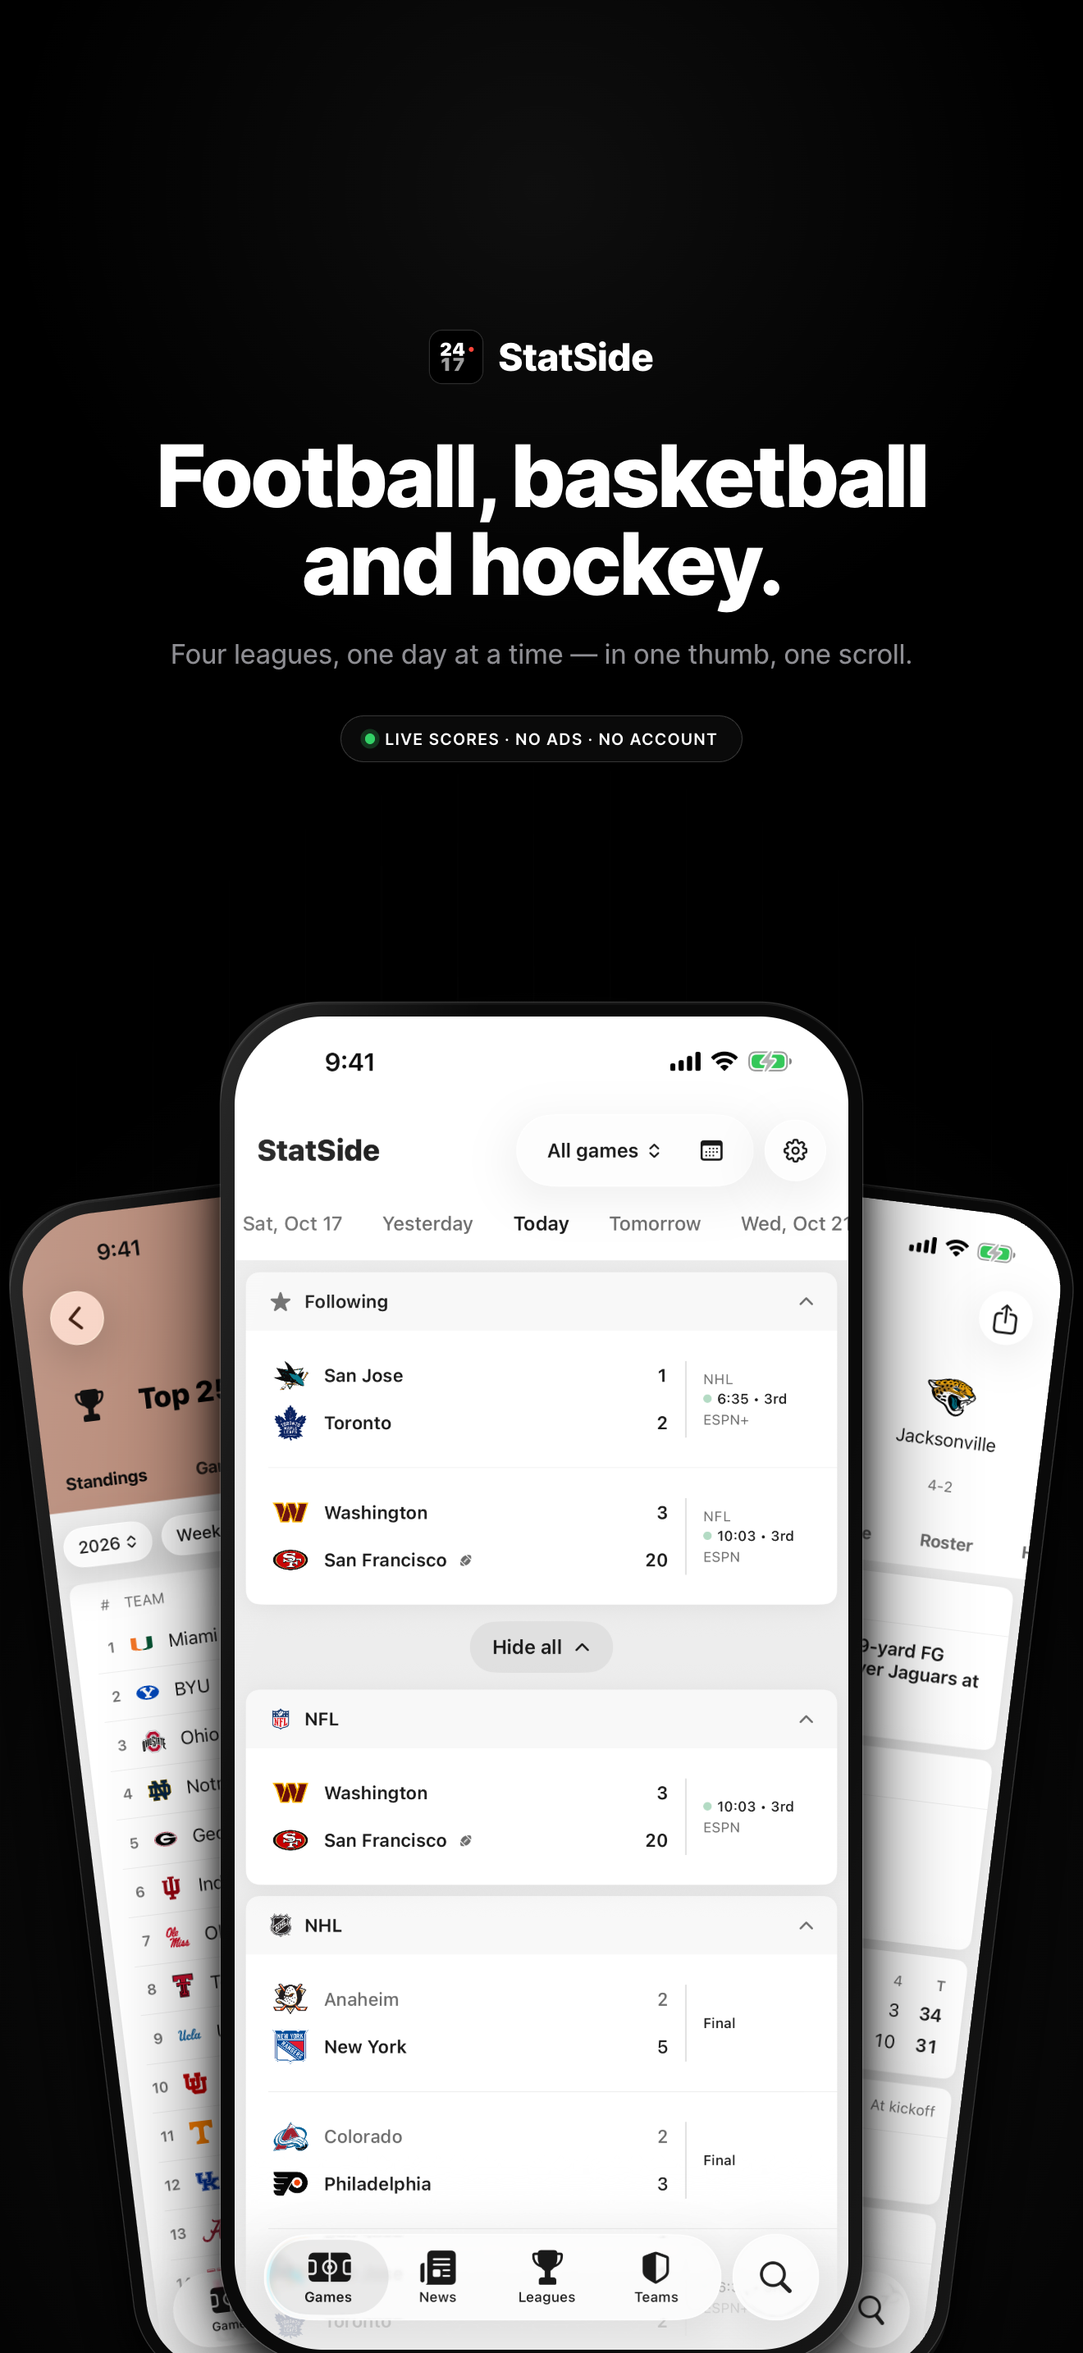
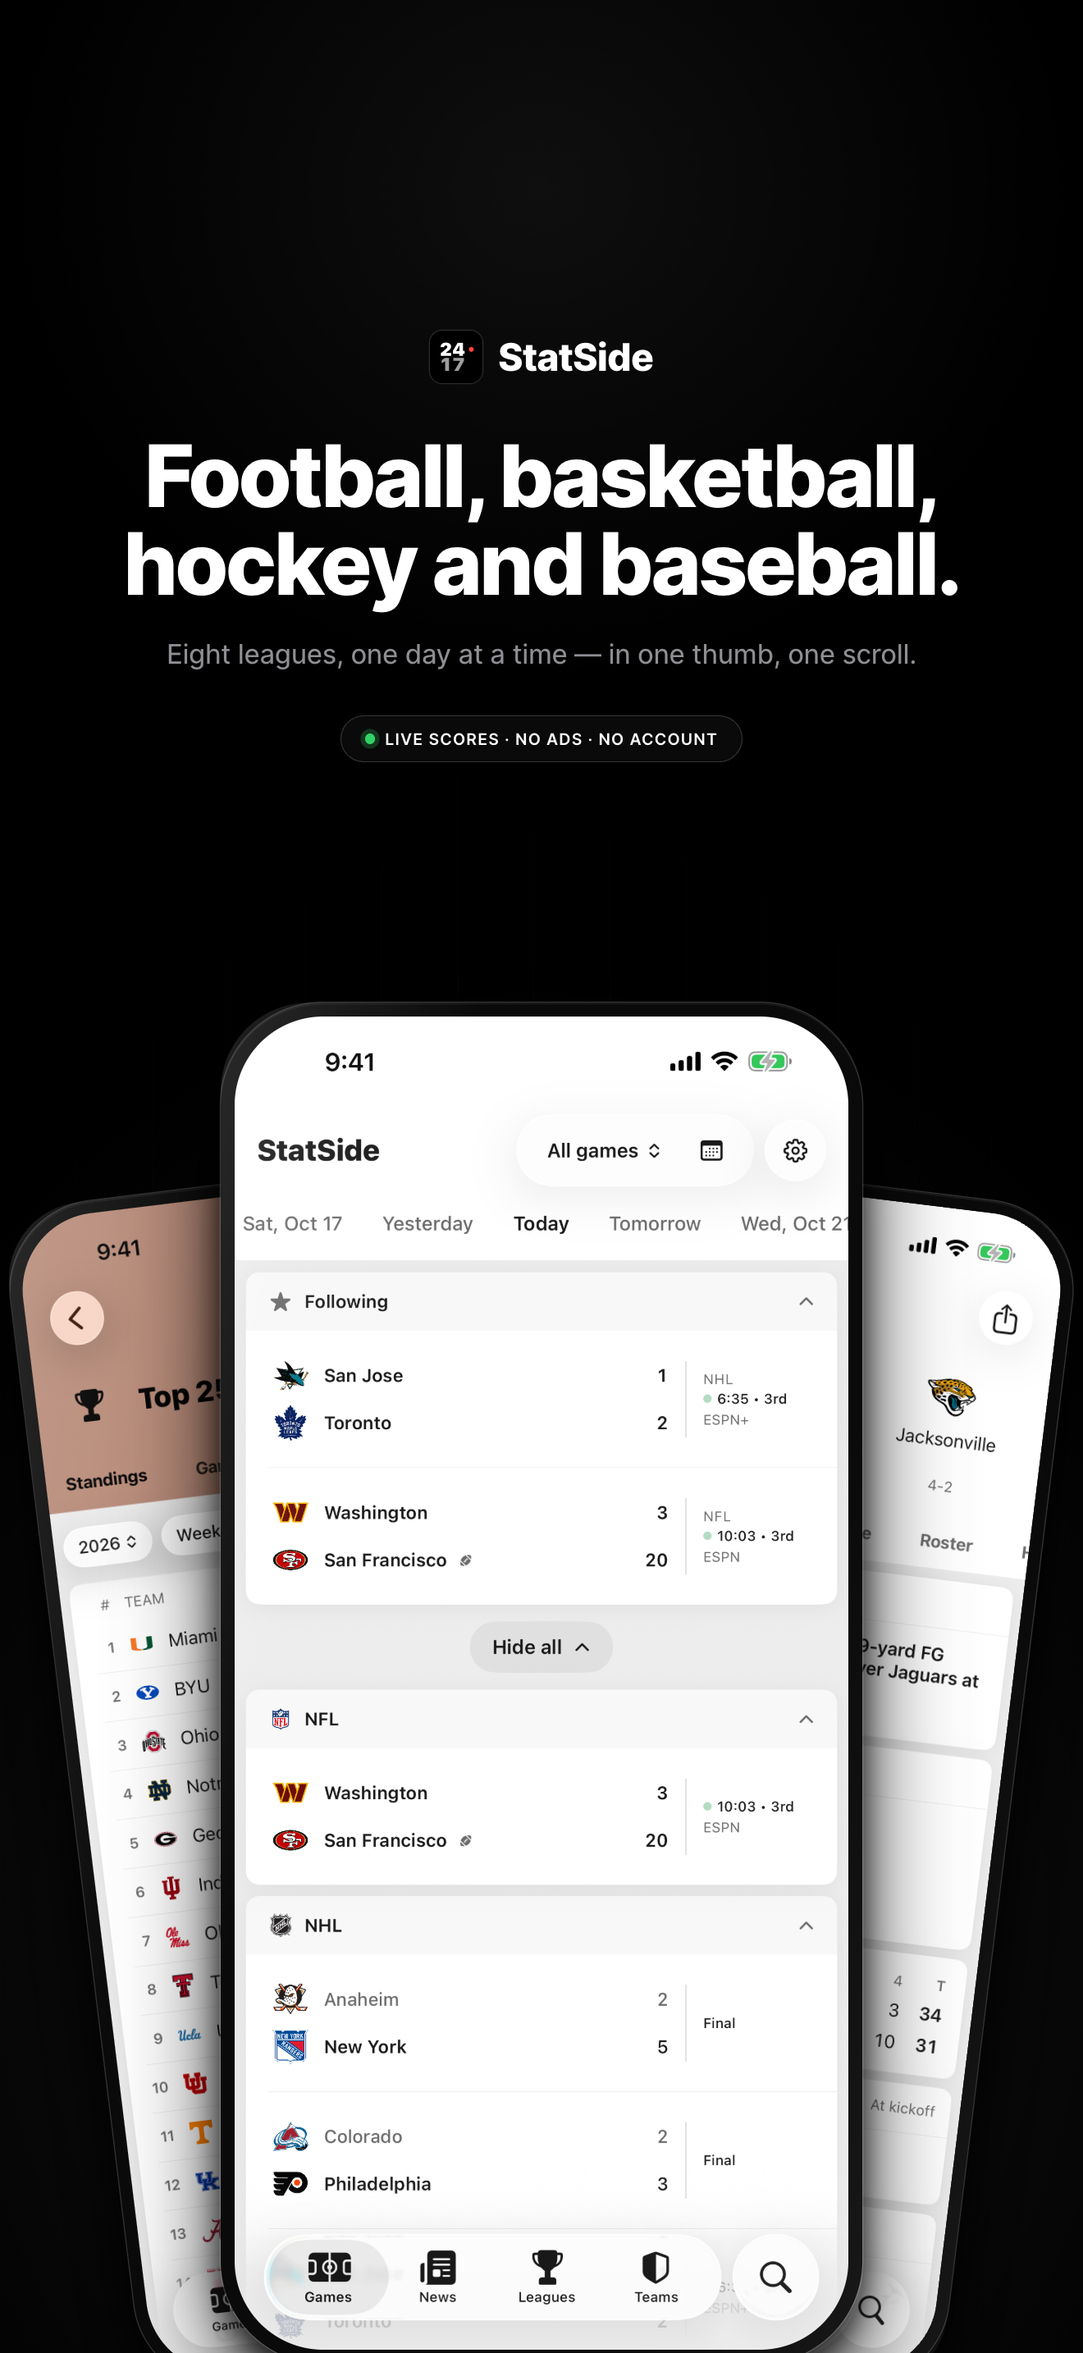
Cut 3.0.0 (build 26)
Four new leagues (men's and women's college basketball, MLB, the WNBA)
take the app to eight and a fourth sport, so this cut is a major.

- Version 3.0.0, build 26, across all four targets.
- listing.md: 3.0.0 What's New; promo text, description and review notes
  say eight leagues and baseball; `baseball` replaces `rankings` in the
  keywords; the subtitle stays three sports on purpose (it can't fit four
  in 30). Nothing public names a league.
- The hero and closer marketing frames re-rendered at both sizes: their
  captions said "four leagues" and "football, basketball and hockey".
- LiveDetailHoldUITests taps the first on-screen copy of a fixture row.
  The fixture serves one slate to every league, so since college
  basketball joined, the first match in tree order could sit off screen
  and the tap landed nowhere.

Changed region(s): [[0.0932, 0.1862, 0.8697, 0.2793]]

diff --git a/sportsUITests/LiveDetailHoldUITests.swift b/sportsUITests/LiveDetailHoldUITests.swift
@@ -53,12 +53,30 @@ final class LiveDetailHoldUITests: XCTestCase {
     @MainActor
     private func pushDetail(containing text: String,
                             in app: XCUIApplication) -> XCUIElement {
-        let row = app.descendants(matching: .any)
-            .matching(NSPredicate(format: "label CONTAINS %@", text))
-            .firstMatch
-        XCTAssertTrue(scrollUntilExists(row, in: app), "fixture row \(text) never appeared")
+        let rows = app.buttons.matching(NSPredicate(
+            format: "identifier BEGINSWITH 'scores-game' AND label CONTAINS %@", text))
+        XCTAssertTrue(scrollUntilExists(rows.firstMatch, in: app), "fixture row \(text) never appeared")
+        // The fixture serves its one slate to every league it's asked for,
+        // so since college basketball joined (2026-11-03) the same game is
+        // a row under more than one league, and the first in tree order can
+        // sit below the fold. Tap the first copy that is on screen: a
+        // coordinate tap at an off-screen frame lands nowhere (it went to
+        // y 1316 on an 874pt screen at the 3.0.0 cut).
+        let screen = app.windows.firstMatch.frame
+        var target: CGRect?
+        for _ in 0..<4 {
+            target = rows.allElementsBoundByIndex
+                .map(\.frame)
+                .first { screen.contains(CGPoint(x: $0.midX, y: $0.midY)) && $0.midY > 180 && $0.midY < screen.maxY - 120 }
+            if target != nil { break }
+            app.swipeUp()
+        }
+        guard let target else {
+            XCTFail("fixture row \(text) never came on screen")
+            return app.buttons["Share this game"]
+        }
         app.coordinate(withNormalizedOffset: .zero)
-            .withOffset(CGVector(dx: row.frame.midX, dy: row.frame.midY))
+            .withOffset(CGVector(dx: target.midX, dy: target.midY))
             .tap()
         let landmark = app.buttons["Share this game"]
         XCTAssertTrue(landmark.waitForExistence(timeout: 10), "game detail never presented")

diff --git a/docs/social/src/as-01-hero.html b/docs/social/src/as-01-hero.html
@@ -58,8 +58,8 @@
         <div class="wordmark">StatSide</div>
       </div>
 
-      <div class="headline">Football, basketball<br>and hockey.</div>
-      <div class="sub">Four leagues, one day at a time — in one thumb, one scroll.</div>
+      <div class="headline">Football, basketball,<br>hockey and baseball.</div>
+      <div class="sub">Eight leagues, one day at a time — in one thumb, one scroll.</div>
       <div class="pill"><span class="dot"></span> Live scores · No ads · No account</div>
     </div>
 

diff --git a/docs/social/src/as-08-closer.html b/docs/social/src/as-08-closer.html
@@ -41,7 +41,7 @@
     <div class="head">
       <img class="icon" src="../../../sports/Assets.xcassets/AppIcon.appiconset/AppIcon.png">
       <div class="wordmark">StatSide</div>
-      <div class="headline">Fast. Focused.<br>Four leagues, done right.</div>
+      <div class="headline">Fast. Focused.<br>Eight leagues, done right.</div>
       <div class="fine">An independent app. Not affiliated with or endorsed by any league, conference, team or school.</div>
     </div>
   </div>

diff --git a/docs/appstore/listing.md b/docs/appstore/listing.md
@@ -30,6 +30,17 @@ Alternates:
 - `Live scores for your teams` (26) — says what the app does, not what it
   covers
 
+**Audited at 3.0.0 and knowingly left a subset.** Baseball is the fourth
+sport, and the subtitle names three. Every way of naming four overruns:
+`Football, hoops, hockey, baseball` is 33, and `Football, basketball,
+baseball` is 30 and drops hockey, which is in season while baseball isn't
+until spring. Swapping to a no-sport line (`Four sports, college and pro`,
+28) would move all four sport words into the keywords, 36 characters the
+field doesn't have. So the subtitle keeps the three, `baseball` goes into the
+keywords (see there), and the promotional text and description say all four.
+Revisit in February, when baseball is on and hockey is still going: that is
+the case for `Football, basketball, baseball` with `hockey` in the keywords.
+
 Audited at 2.10.0 and unchanged. The stats tabs, the Standings tab and the
 Starters redesign are new drawing for the same three sports.
 
@@ -73,6 +84,47 @@ Primary: **Sports**. No secondary needed.
 
 Per-version release notes. Newest first — keep the old ones, this is the
 release-notes history now.
+
+### 3.0.0 (build 26)
+
+> • Four new leagues: men's and women's college basketball, pro baseball and
+>   pro women's basketball. That's eight now, and each one gets what the
+>   others have: scores, game pages, tables, stat leaders, team and player
+>   pages, and trophies. College basketball has both Top 25 polls, for the
+>   men and the women.
+> • Baseball reads like baseball. Live games say Top 5th, extra innings are
+>   the 10th and not overtime, and the line score ends in runs, hits and
+>   errors. Plays go by half inning, one line per at-bat. While a game is on,
+>   the card draws the diamond with the runners on, the count, the outs and
+>   who's pitching to whom.
+> • Baseball teams start with reminders off, since they play almost every
+>   day. The bell on a team page turns them on.
+> • Playoff brackets. Pro playoffs draw as series, one card per matchup with
+>   the series score, and tapping a card opens the game that's on, up next or
+>   the one that decided it. The tab is called Playoffs everywhere now and
+>   sits right after Standings.
+> • Where a pro played college. Pro player pages have a College row that
+>   opens the school's page, and college team pages have a Pros tab with the
+>   school's players in the pros.
+> • Grouped by conference, Games now leads with the Top 25s and the biggest
+>   conferences, and each college football division gets its own folded
+>   section with every game in it.
+> • In Following, a women's college game says (W) after each team, so a
+>   school's men's and women's teams don't read the same. Women's team and
+>   conference pages do the same where the names match.
+> • The season picker sits beside Follow at the top of league, conference
+>   and team pages.
+> • Box scores scroll sideways without flipping you to the next tab.
+
+2.10.0 (25) was archived 2026-10-28 and hadn't been uploaded at that cut. If
+it never went up, paste 2.10.0's bullets under these. 3.0.0 because it
+doubles the leagues and adds a sport (Andy's call at this cut). Every one of
+the five iOS commits since the 2.10.0 bump has a line except #298 (the
+Leagues tab's top fade waits for a scroll), which is drawing too small to
+name. The (W) bullet is worded around a school because the commit's own
+example was a team name. Nothing here names a league, conference or
+division (§ 4.1(a) rejection), which is why FBS and FCS are "each college
+football division".
 
 ### 2.10.0 (build 25)
 
@@ -526,9 +578,18 @@ up, fold the still-true bullets into 1.3.1 and drop that one.
 
 ## Promotional text (170 chars max — editable anytime without review) ✏
 
-> Four leagues, one screen. Follow your football, basketball and hockey
-> teams, college and pro, see what's live, and get a reminder 30 minutes
-> before they play. No ads. (166)
+> Eight leagues, one screen. Follow your football, basketball, hockey and
+> baseball teams, college and pro, and get a reminder 30 minutes before they
+> play. No ads. (160)
+
+**Changed for 3.0.0.** "Four leagues" stopped being true, and the sport list
+gains baseball. Eight leagues and the fourth sport cost 11 characters over
+the limit, so "see what's live" went rather than the "30 minutes", the one
+concrete thing in the line and the clause every earlier candidate has kept.
+The 2.9.0 line was:
+*"Four leagues, one screen. Follow your football, basketball and hockey
+teams, college and pro, see what's live, and get a reminder 30 minutes
+before they play. No ads."* (166)
 
 **Changed for the 4.1(a) rejection (2.6.1, 2026-09-28).** The previous line
 named the NFL, NBA and NHL. Promotional text is metadata even though it
@@ -584,18 +645,19 @@ leagues ever stop being the thing worth saying first; no review needed.
 
 ## Description (4000 chars max) ✏
 
-> StatSide is football, basketball and hockey, college and pro, at a glance.
+> StatSide is football, basketball, hockey and baseball, college and pro, at
+> a glance.
 > One screen answers "what's happening right now" — no ads, no interstitials,
 > nothing between you and the scores.
 >
 > BUILT FOR GAME DAY, ALL YEAR
-> • Your teams first: follow any team in any of the four leagues and their
+> • Your teams first: follow any team in any of the eight leagues and their
 >   games lead the page, together
 > • One day at a time, every league stacked, and each one split the way you
 >   want it — one section for the whole league, or a section per conference
 >   or division
 > • Live games get a pulsing dot, heavier type on the score, and possession
->   where the sport has it
+>   where the sport has it, or the runners, count and outs in baseball
 > • A focus menu narrows the day to live games, or to the tight ones: live
 >   and close, late in the game, or an upset brewing
 > • Hide scores until you've watched. Your teams' games show Live or Final
@@ -614,7 +676,10 @@ leagues ever stop being the thing worth saying first; no review needed.
 > • Long-press any game to follow a team or share the score
 >
 > LEAGUES, TABLES AND TEAMS
-> • The college football Top 25 polls, with movement arrows
+> • The college Top 25 polls, for football and for men's and women's
+>   basketball, with movement arrows
+> • Playoff brackets: every pro series on one card, from the first round to
+>   the final, and the college tournaments
 > • Every college conference, and every pro conference and division — each
 >   table in its own league's terms
 > • Player and team stat leaders for every league, conference and division,
@@ -622,17 +687,20 @@ leagues ever stop being the thing worth saying first; no review needed.
 > • Game pages: a preview before the game and the facts after, line score,
 >   box score, scoring plays, team stats, leaders, win probability, the
 >   head-to-head series, both teams' standings, and the plays themselves — drives for football,
->   periods for basketball and hockey
-> • Who's playing, on every game page: the starters drawn on the field, court
->   or rink, the coaches, the bench, the inactives and the injured, away on
+>   periods for basketball and hockey, every at-bat by half inning for
+>   baseball
+> • Who's playing, on every game page: the starters drawn on the field, court,
+>   rink or diamond, the coaches, the bench, the inactives and the injured, away on
 >   the left and home on the right
 > • Team pages: the record, season stats and leaders, the full season, bye
->   weeks, the roster, the home ground, and the trophies the team has won
-> • Player pages: this season's numbers, every game, and the career, reached
->   from a roster, a search, a box score or a game's leaders
+>   weeks, the roster, the home ground, and the trophies the team has won,
+>   and for a college, its players in the pros
+> • Player pages: this season's numbers, every game, the career, and where
+>   a pro played college, reached from a roster, a search, a box score or a
+>   game's leaders
 > • Coach pages: every job a head coach has held, the record at each, and
 >   the games season by season
-> • Optional betting lines: the spread and over/under before kickoff, off
+> • Optional betting lines: the spread and over/under before the game, off
 >   unless you turn them on
 > • Search any team, conference, game, player or story — across every league,
 >   from a field that sits under your thumb
@@ -644,10 +712,19 @@ leagues ever stop being the thing worth saying first; no review needed.
 > no account, no tracking. StatSide collects no data — your followed teams
 > live on your phone and nowhere else.
 >
-> Free. Fast. Four leagues, done right.
+> Free. Fast. Eight leagues, done right.
 >
 > StatSide is an independent app and is not affiliated with or endorsed by any
 > league, conference, team or school.
+
+Changed for 3.0.0, in nine places, all for the four new leagues and the
+fourth sport. The opener names baseball; "four leagues" is eight in the
+follow bullet and the closer; the live bullet says what a live baseball game
+shows instead of possession; the polls bullet gains college basketball's, men's
+and women's, and a playoff-brackets bullet follows it; the plays clause and
+the Who's playing bullet name the at-bat and the diamond; team and player
+pages gain the Pros tab and the College row; and the betting lines are
+"before the game", since baseball doesn't kick off. Still no league named.
 
 Changed for 2.10.0, in two places: a stat-leaders bullet follows the tables
 bullet, for the league pages' Player stats and Team stats tabs (#293), and
@@ -740,7 +817,14 @@ data" paragraph is unchanged, because nothing in this release collects any.
 
 ## Keywords (100 chars max, comma-separated, no spaces needed after commas)
 
-`college,scores,live,standings,top 25,box score,playoff,pro,schedule,widget,stats,rankings,hoops,news` (100)
+`college,scores,live,standings,top 25,box score,playoff,pro,schedule,widget,stats,baseball,hoops,news` (100)
+
+**Changed for 3.0.0: `baseball` in, `rankings` out**, nine characters for
+nine. Baseball is the sport the subtitle can't fit (see Subtitle), and the
+keywords are the only other indexed field. `rankings` is the cheapest term to
+lose: `top 25` carries the polls and `standings` the tables. `pro` plus
+`baseball` still matches "pro baseball", the same trick 4.1(a) taught for
+football.
 
 Audited at 2.10.0 and unchanged. `stats` and `standings` are already here,
 and they're the two words the release's headlines would have asked for.
@@ -998,6 +1082,19 @@ Resolution Center reply).
 exactly 1284×2778 and 1320×2868. Re-render the three on the Mac per
 `docs/social/README.md` § Regenerating before upload if the glyphs need to
 match frames 02–07 exactly.
+
+### 3.0.0: two captions re-rendered, devices carried forward
+
+`01-hero` and `08-closer` said things 3.0.0 makes false: the hero's
+"Football, basketball and hockey." and "Four leagues, one day at a time",
+and the closer's "Four leagues, done right." They read "Football,
+basketball, hockey and baseball.", "Eight leagues, one day at a time" and
+"Eight leagues, done right." now, both sizes re-rendered from
+`docs/social/src/as-*.html` over the same 2026-10-19 masters. Re-upload
+those two frames in their slots (1 and 10 in the order above); the other
+eight carry forward. No master was reshot: baseball and the WNBA are in
+their offseasons, so there's no live diamond or bracket in progress to shoot,
+and still no basketball frame. A reshoot in spring can carry both.
 
 ### 2.9.0: reshot, eleven frames, real logos (Andy's call)
 
@@ -1288,7 +1385,8 @@ Rewritten 2026-08-04 for the 4.2.2 resubmission; league names refreshed for
 self-describes as displaying aggregated content.
 
 > StatSide is a fully native SwiftUI app built around following your teams
-> across college football, the NFL, the NBA and the NHL. Follow a team (Teams
+> across college football, men's and women's college basketball, the NFL,
+> the NBA, the WNBA, the NHL and MLB. Follow a team (Teams
 > tab) and the app personalizes around it: a Following section leads the games
 > page with your teams from every league together, and you can turn on game
 > reminders — local notifications 30 minutes before each of your teams' games,
@@ -1306,7 +1404,7 @@ self-describes as displaying aggregated content.
 >   VoiceOver support, light/dark mode
 > • No web views anywhere; every screen is native SwiftUI
 >
-> To demo: follow any team from the Teams tab (Add teams → any of the four
+> To demo: follow any team from the Teams tab (Add teams → any of the eight
 > leagues), then enable the bell on its team page (game reminders) and add the
 > StatSide widget to the Home Screen. The day strip on Games walks any day of
 > the season, and the season picker on a league or team page reaches past
@@ -1320,6 +1418,28 @@ strip and empty slates for basketball and hockey, which is the season and not a
 defect. The Leagues tab shows all four with their tables, and a past season on
 an NBA or NHL team page shows a full schedule — that is the fastest way to see
 basketball and hockey carrying real data.
+
+**Notes audit at 3.0.0: the opener and the demo line changed, plus a
+timing line.** The opener named four leagues and now names all eight, and the
+demo paragraph's "any of the four leagues" is eight. Review notes are the one
+field exempt from § 4.1(a), since only the reviewer reads them. 3.0.0 adds no
+entitlement, account, data collection or web view: the four leagues are the
+same screens, the Pros tab reads a file bundled in the app (nothing new is
+fetched from anywhere but ESPN), and baseball reminders default off, so a
+baseball follow schedules nothing until the bell is turned on. Paste the
+whole block fresh.
+
+Timing line for the submission, because two of the new leagues are between
+seasons on review day:
+
+> Pro baseball and the WNBA are in their offseasons, so their Games slates
+> are empty until spring. Their league pages carry last season in full:
+> standings, stats, the Playoffs tab's series bracket and every game. College
+> basketball's season opened this week.
+
+Demo paths for the release: Leagues → MLB → Playoffs, then a World Series
+card for a finished game page (Plays by half inning, the R/H/E line score);
+any NBA or NFL player page → Profile → College; a college team page → Pros.
 
 **Notes audit at 2.10.0: no new paragraph, and no timing line.** 2.10.0
 adds no entitlement, account, data collection or web view: the Standings
